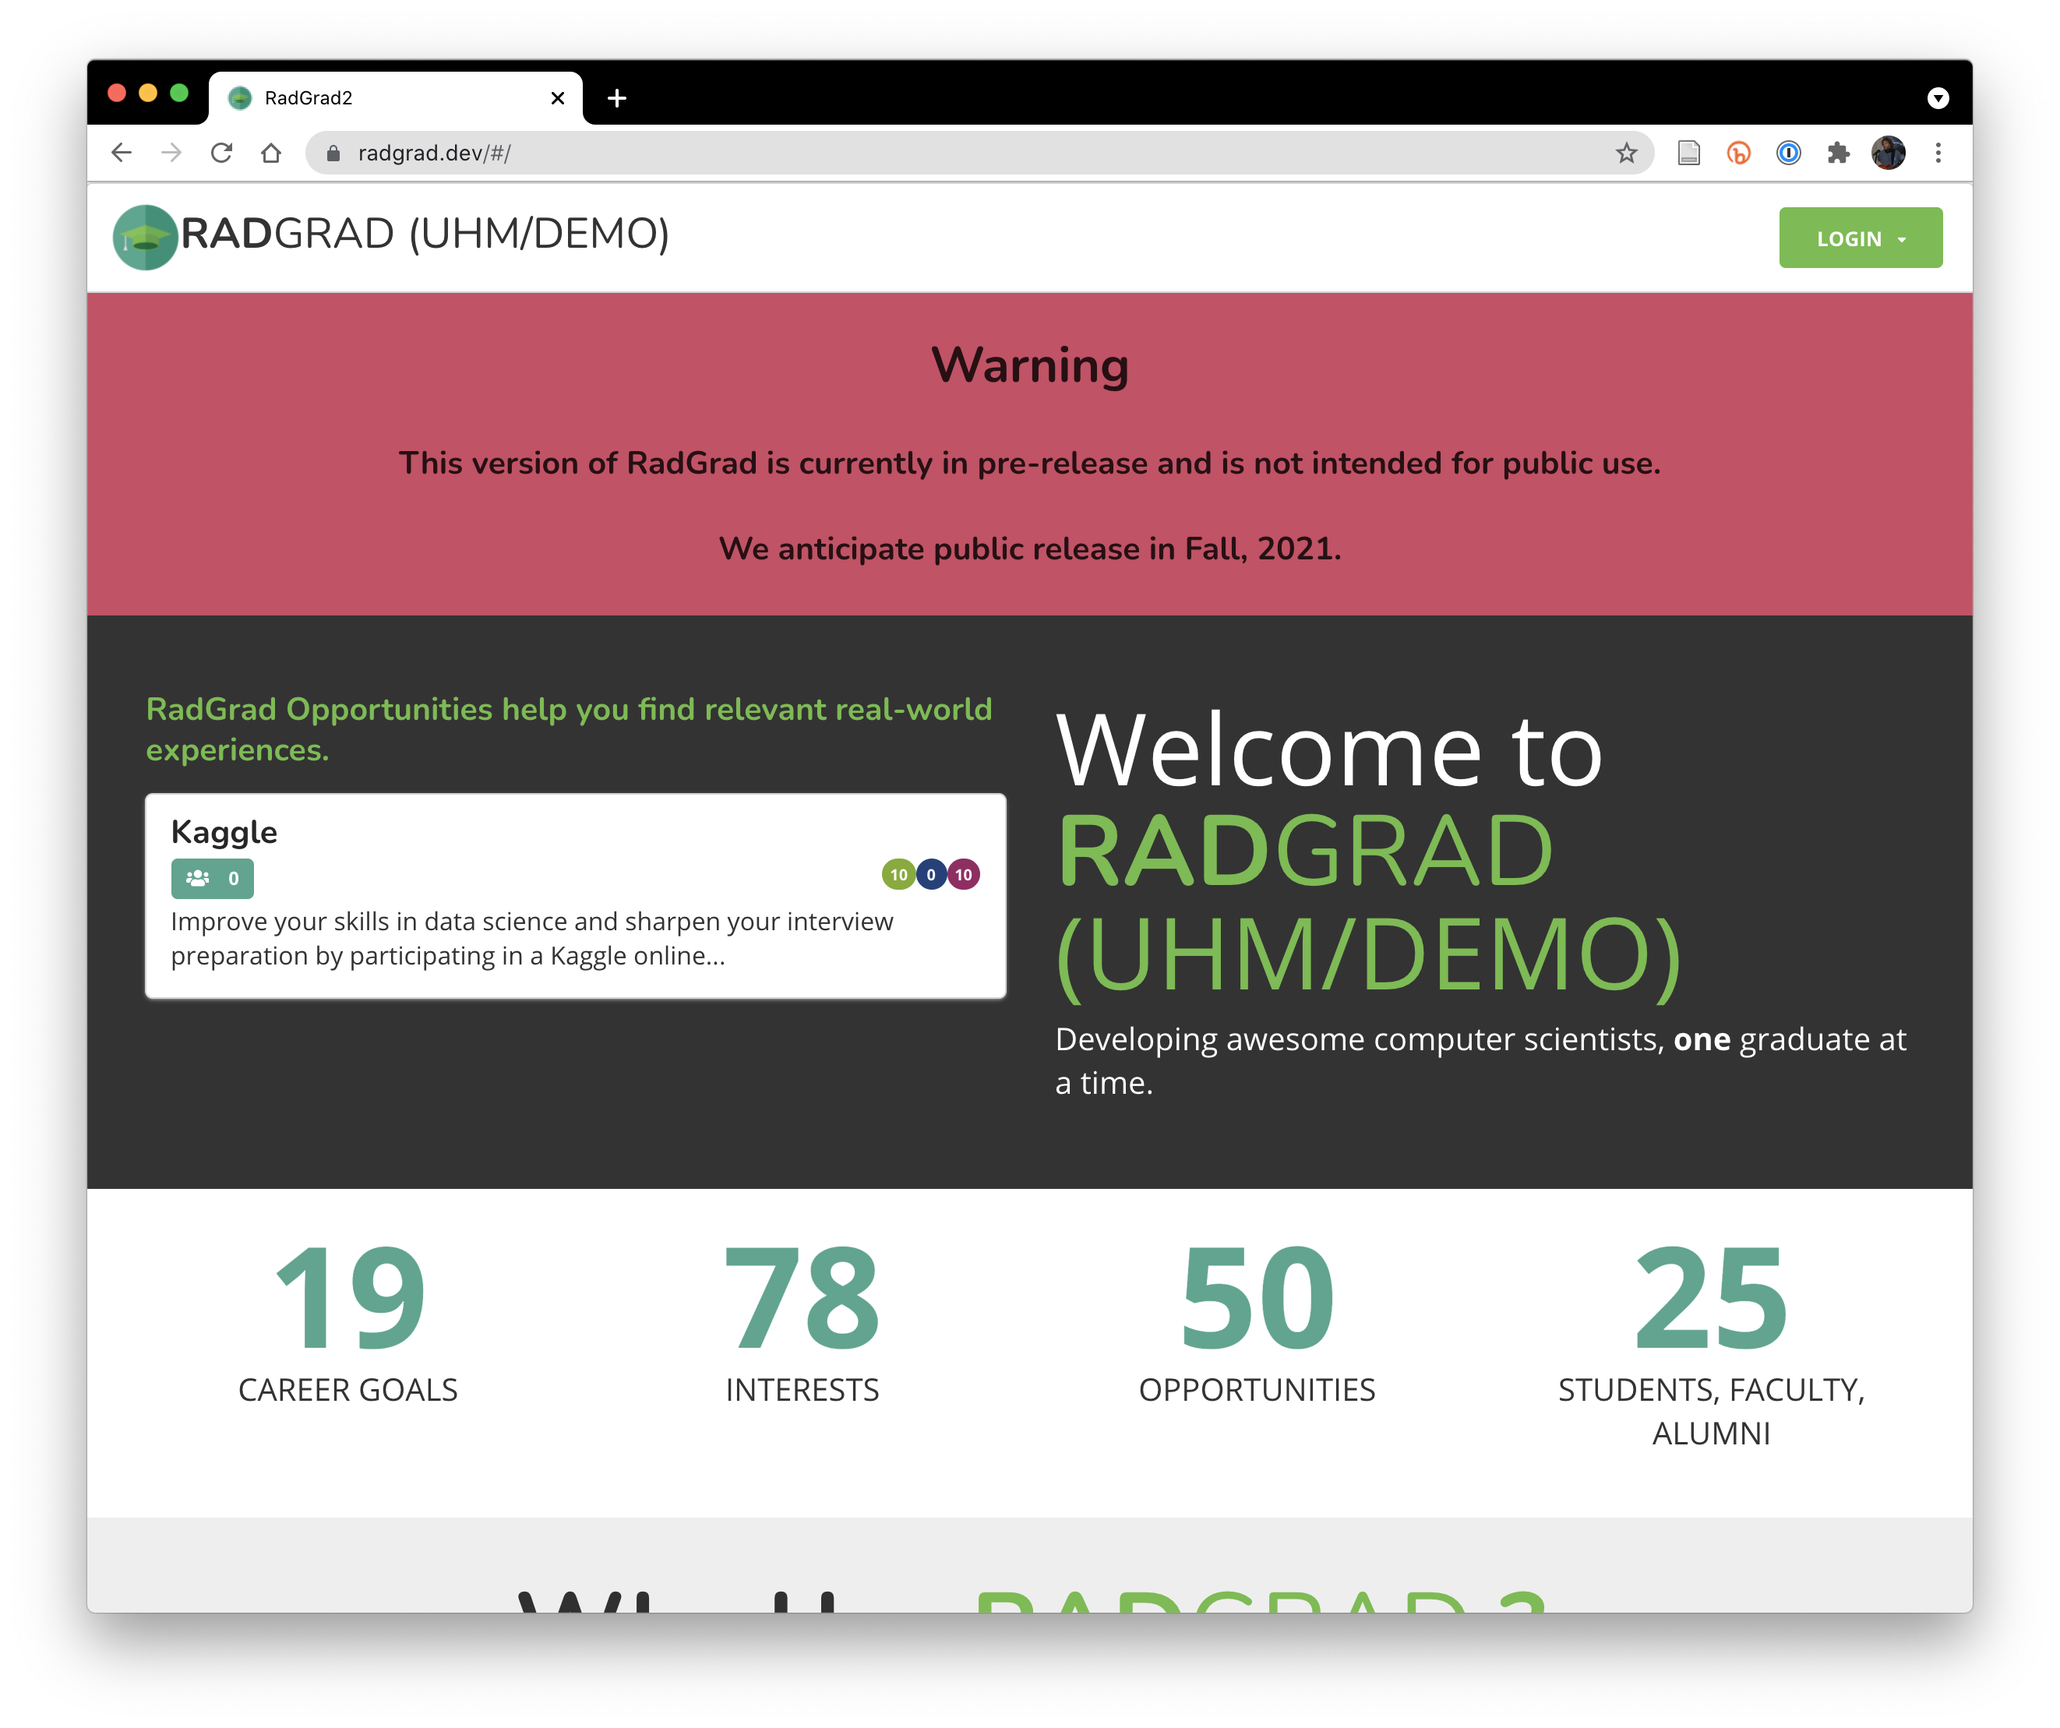
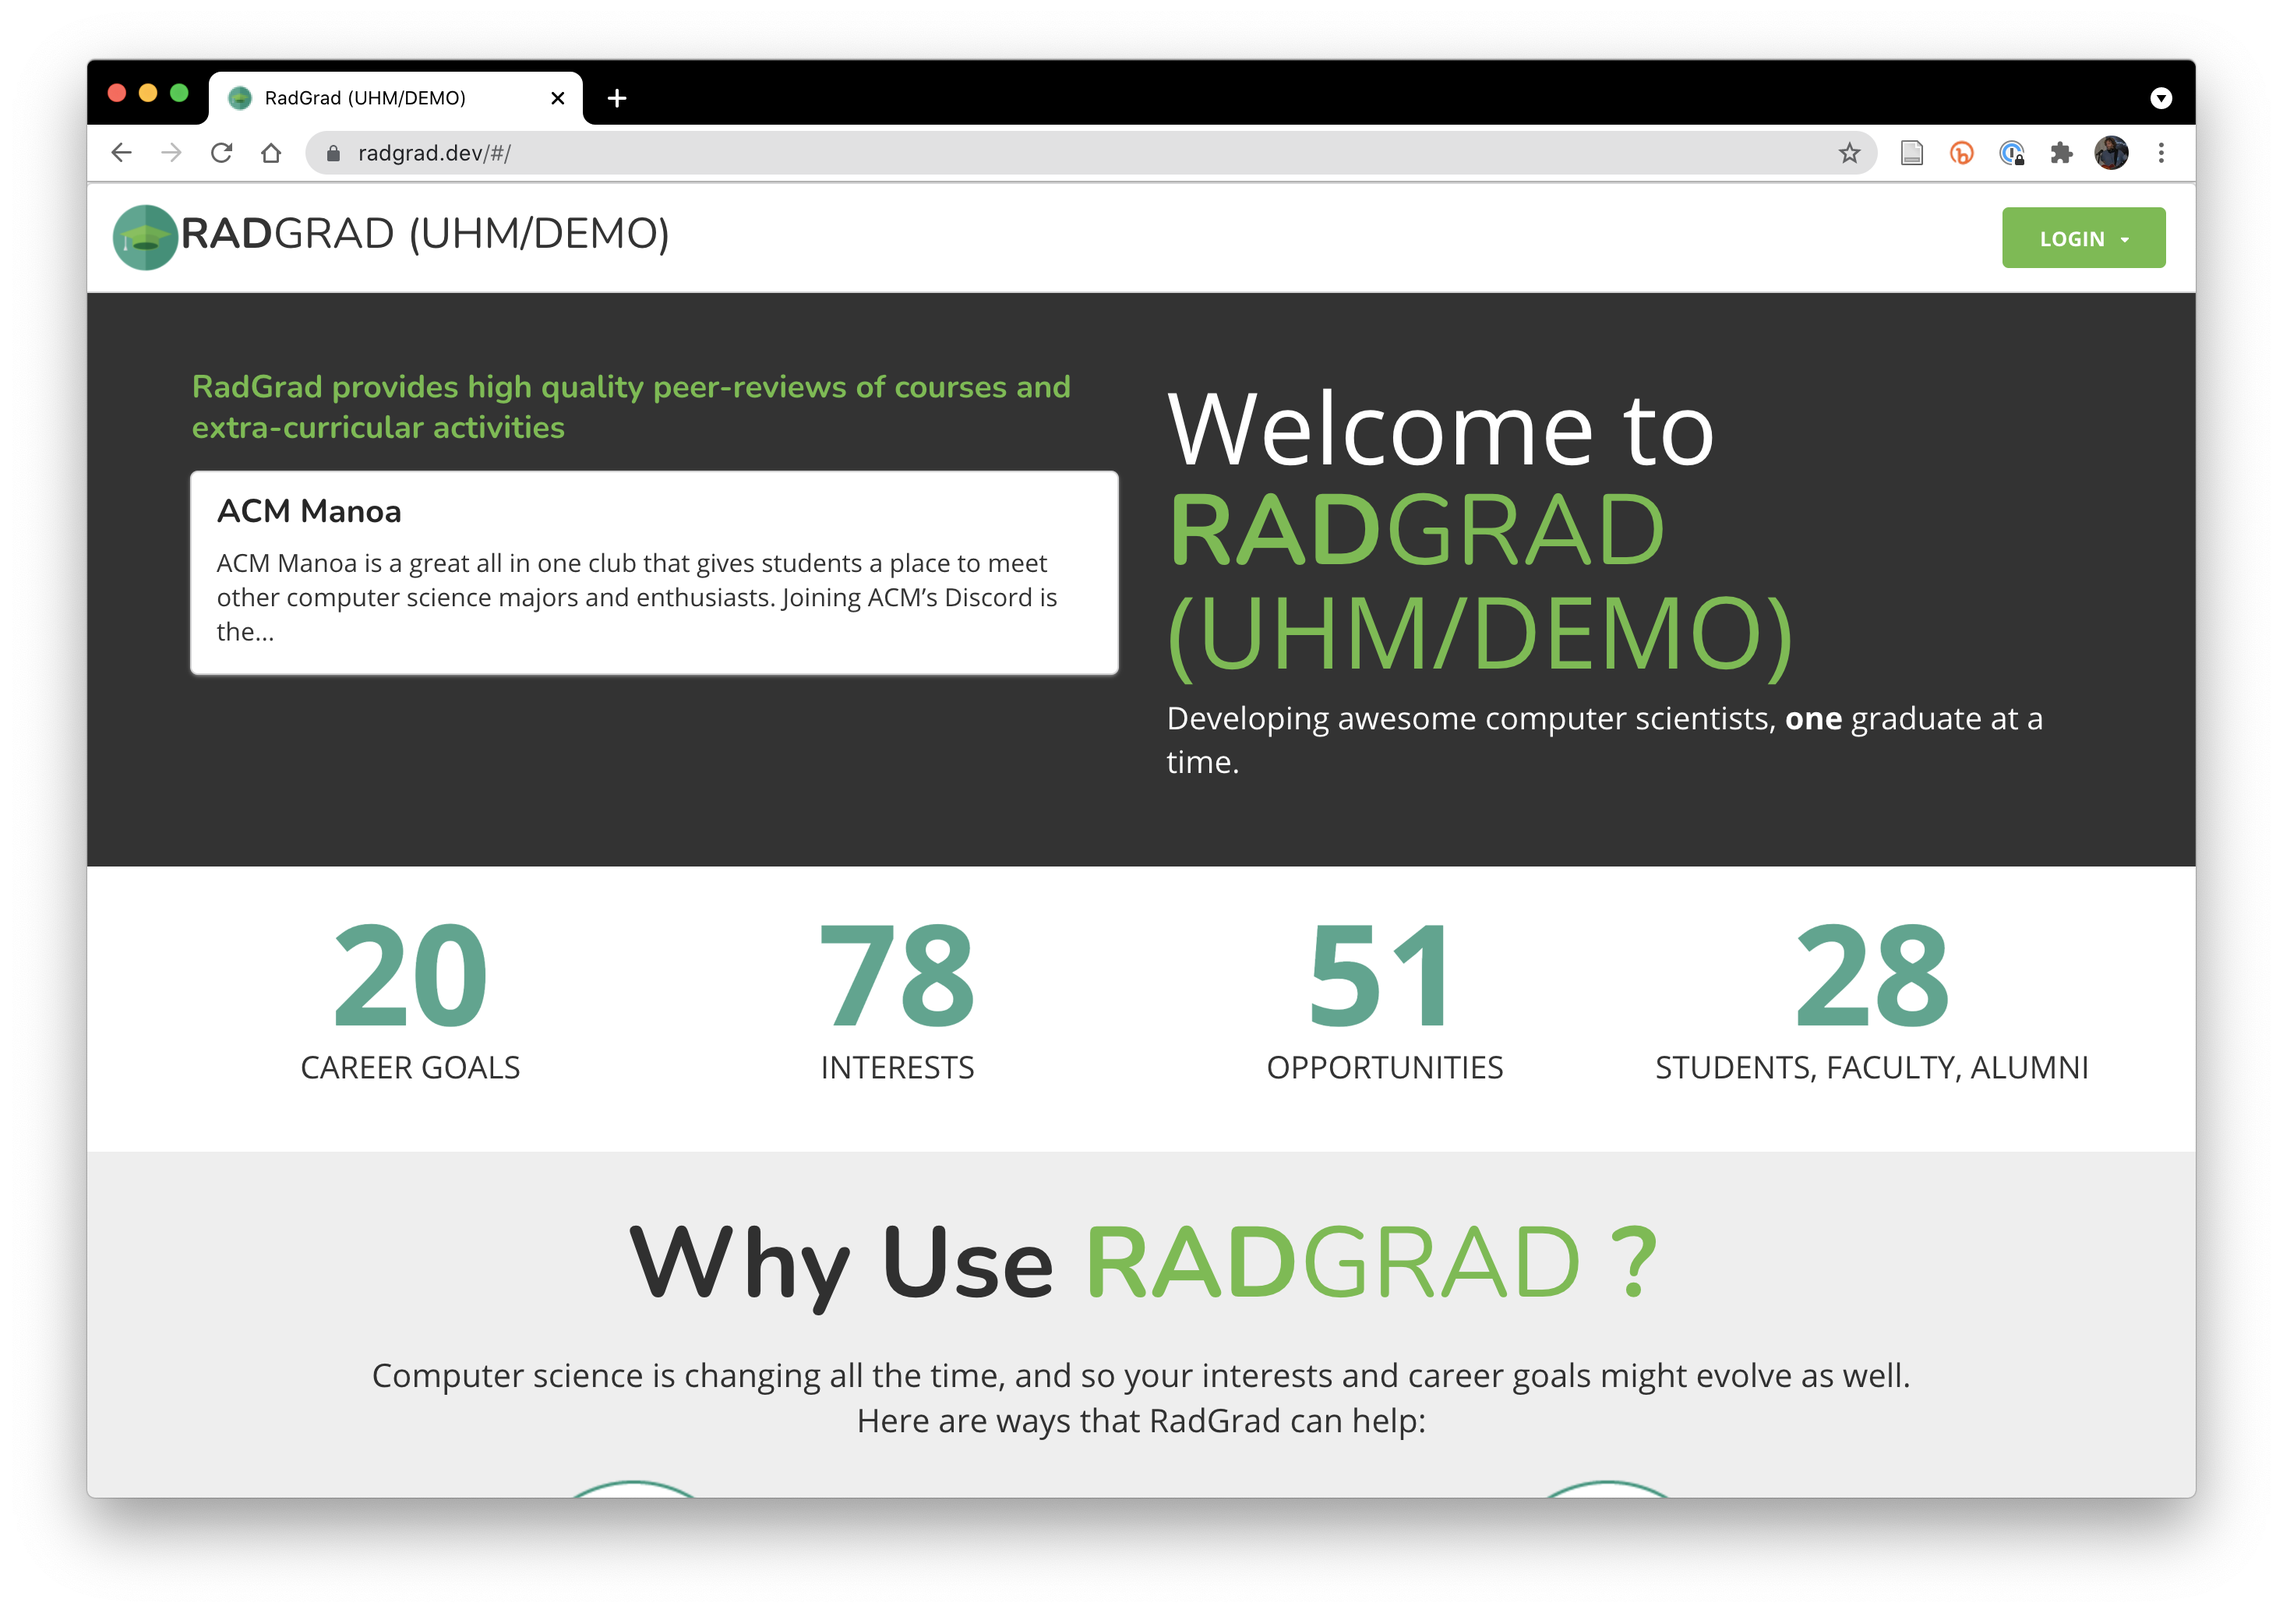
checkpoint

diff --git a/src/pages/index.js b/src/pages/index.js
@@ -19,11 +19,12 @@ const features = [
     ),
   },
   {
-    title: <>For Students</>,
+    title: <>For Users</>,
     description: (
         <ul>
-          <li><a href='https://radgrad2.ics.hawaii.edu'>UHM/ICS RadGrad (pre-release)</a></li>
-          <li><a href='https://radgrad-comp-eng.design'>UHM/CENG RadGrad (pre-release)</a></li>
+          <li><a href='https://radgrad2.ics.hawaii.edu'>RadGrad (UHM/ICS)</a></li>
+          <li><a href='https://radgrad-comp-eng.design'>RadGrad (UHM/CENG)</a></li>
+          <li><a href='https://radgrad.dev'>RadGrad (UHM/DEMO)</a></li>
           <li><a href='http://go.hawaii.edu/JuG'>1 Page Cheat Sheet (PDF)</a></li>
           <li><a href='/docs/users/overview'>User Guide</a></li>
         </ul>

diff --git a/docs/users/demo/login.md b/docs/users/demo/login.md
@@ -9,14 +9,14 @@ To login to the UHM/DEMO instance, please navigate in your browser to [https://r
 
 The most important part is that the upper left corner says "RADGRAD (UHM/DEMO)".
 
-In the UHM/DEMO instance, you can login as any user with the same password.  To avoid the potential for shenanigans, we're not stating the password in this document. Instead, please contact a member of the RadGrad team to find out what the "generic" UHM/DEMO password is.
+In the UHM/DEMO instance, all users have the same password. To avoid the potential for shenanigans, we're not stating the password in this document. Instead, please contact a member of the RadGrad team to find out the "universal" UHM/DEMO password.
 
-A good way to start understanding the system is to login as a hypothetical student who has used the system successfully and is at the end of their undergraduate experience.  In UHM/DEMO, that kind of student is represented by `dora@hawaii.edu`.
+A good way to start understanding the system is to login as a hypothetical student who has used the system successfully and is at the end of their undergraduate experience.  In UHM/DEMO, that kind of student is represented by any one of the five Doras: `dora@hawaii.edu`, `dora2@hawaii.edu`, `dora3@hawaii.edu`, or `dora4@hawaii.edu`.  These users are all pretty much exactly the same. We provide multiple Doras so that if multiple people are experiencing this demo at the same time, they can login to their own student account and not be surprised by another person updating their student's state.
 
-To login as Dora, click on the "LOGIN" button at the top left of the landing page, select "... as a student", and then enter `dora@hawaii.edu` as the user name and the password we have supplied you for all users. Once you've logged in, you should see Dora's home page, which we discuss on the next page.
+To login as a Dora, click on the "LOGIN" button at the top left of the landing page, select "... as a student", and then enter `dora@hawaii.edu` (or any other dora) as the user name. Supply the "universal" password as the password. Once you've logged in, you should see the Dora home page, which we discuss on the next page.
 
 :::tip Demo Dive
-At the conclusion of this guided tour, you might want to try logging in as one of the other students. But it's easiest to start learning about RadGrad by seeing what a "good" RadGrad student's account looks like.
+At the conclusion of this guided tour, you might want to try logging in as one of the other (non-Dora) students. But it's easiest to start learning about RadGrad by seeing what a "good" RadGrad student's account looks like.
 
 <hr/>
 (Problems with this page? Email radgrad@hawaii.edu to let us know.)

diff --git a/docs/developers/design/scripts/howto/generate-demo-fixture.md b/docs/developers/design/scripts/howto/generate-demo-fixture.md
@@ -13,22 +13,23 @@ Login to RadGrad as administrator. Go to the Manage Database Page:
 
 Click the `Dump Database` button. RadGrad will create a zip file containing all the collections and download it. Unzip the file and copy/move the JSON file to the `scripts/radgrad-db/` directory. This directory is .gitignored so the student data will not be shared.
 
-Edit the `"create-demo-fixture": "npm run tsc && node js/fixture-generator/demo-fixture-generator.js radgrad-db/2021-05-18-10-14-34.json data/userConfig1.json"` script in `scripts/package.json` to use the downloaded database.
+Edit the `"create-demo-fixture": "npm run tsc && node js/fixture-generator/demo-fixture-generator.js radgrad-db/2021-05-18-10-14-34.json data/demo-fixture-generator-config.json"` script in `scripts/package.json` to use the downloaded database.
 
-### Edit the `userConfig1.json` file (optional)
+### Edit the `demo-fixture-generator-config.json` file (optional)
 
-The `userConfig1.json` file defines five students:
+The `demo-fixture-generator-config.json` file defines five students:
 
   * `abi@hawaii.edu` Abi is a sophomore who has planned her Junior year.
   * `alfred@hawaii.edu` Alfred is a senior with one academic term left.
   * `betty@hawaii.edu` Betty is a junior with about a full year left.
   * `charley@hawaii.edu` Charley is a blank student with no interests or career goals.
+  * `dora@hawaii.edu` Dora is a Level 5 student.
   * `ella@hawaii.edu` Ella is an alumni.
 
 
-You can edit the `data/userConfig1.json` file if you want to change the students or their plans.
+You can edit the `data/demo-fixture-generator-config.json` file if you want to change the students or their plans.
 
-The `userConfig1.json` file has two parts `studentProfiles` and `studentPlans`.
+The `demo-fixture-generator-config.json` file has two parts `studentProfiles` and `studentPlans`.
 ```json
 {
   "studentProfiles": {
@@ -87,13 +88,13 @@ Cd into the `scripts` directory and run the script.
 ⋊> ~/R/r/scripts on issue-509 ⨯ npm run create-demo-fixture
 
 > radgrad2-scripts@1.0.0 create-demo-fixture
-> npm run tsc && node js/fixture-generator/demo-fixture-generator.js radgrad-db/2021-05-18-10-14-34.json data/userConfig1.json
+> npm run tsc && node js/fixture-generator/demo-fixture-generator.js radgrad-db/2021-05-18-10-14-34.json data/demo-fixture-generator-config.json
 
 
 > radgrad2-scripts@1.0.0 tsc
 > tsc
 
-generateDemoFixture radgrad-db/2021-05-18-10-14-34.json data/userConfig1.json
+generateDemoFixture radgrad-db/2021-05-18-10-14-34.json data/demo-fixture-generator-config.json
 data/2021-05-29-10-10-26.json
 ⋊> ~/R/r/scripts on issue-509 ⨯
 ```

diff --git a/docs/users/demo/overview.md b/docs/users/demo/overview.md
@@ -12,22 +12,22 @@ UHM/DEMO defines the following users with the following roles:
 * 1 admin (`radgrad@hawaii.edu`)
 * 3 advisors (`cmoore@hawaii.edu`, `johnson@hawaii.edu`, and `kennydq@hawaii.edu`)
 * 16 faculty (including `scottpr@hawaii.edu`, `guylaine@hawaii.edu`, and `henric@hawaii.edu`)
-* 6 students (`abi@hawaii.edu`, `alfred@hawaii.edu`, `betty@hawaii.edu`, `charley@hawaii.edu`, `dora@hawaii.edu`, and `ella@hawaii.edu`)
+* 9 students (`abi@hawaii.edu`, `alfred@hawaii.edu`, `betty@hawaii.edu`, `charley@hawaii.edu`, `dora@hawaii.edu`, and `dora2@hawaii.edu`, `dora3@hawaii.edu`, `dora4@hawaii.edu`, and `ella@hawaii.edu`)
 
 It also defines approximately:
 
-* 19 Career Goals
-* 78 Interests
+* 20 Career Goals
+* 80 Interests
 * 50 Opportunities
-* 106 Courses
+* 100 Courses
 
 The advisor and faculty user definitions loosely reflect actual faculty at the University of Hawaii Department of Information and Computer Sciences (ICS), and the Career Goal, Interest, Opportunity, and Course definitions are all taken from a recent snapshot of the production RadGrad database for the ICS Department.
 
-However, the the 6 student definitions in UHM/DEMO are totally hypothetical. They are defined in such a way as to illustrate students at various points in their academic program.
+However, the student definitions in UHM/DEMO are totally hypothetical. They are defined in such a way as to illustrate students at various points in their academic program. Note that there are actually five "Dora"s, which makes it easier for multiple people to work through this demo at the same time.
 
 :::tip Demo Dive
 This chapter is best used "interactively": please obtain the password for the UHM/DEMO instance, and then login to https://radgrad.dev and explore the system as you read through the accompanying pages. The screenshots are just examples and there are additional features you can discover by interacting with the system.
 
-The next 10 pages take you through the major features of RadGrad from the student perspective. The last half dozen pages will show you the additional features available to Faculty and Advisors. To understand those capabilities, it's best that you first be familiar with the system from the student's point of view.
+The next 10 pages take you through the major features of RadGrad from the student perspective. The last half dozen pages will show you the additional features available to Faculty and Advisors. To understand the capabilities of Faculty and Advisors, it's best that you first be familiar with the system from the student's point of view.
 :::
 
